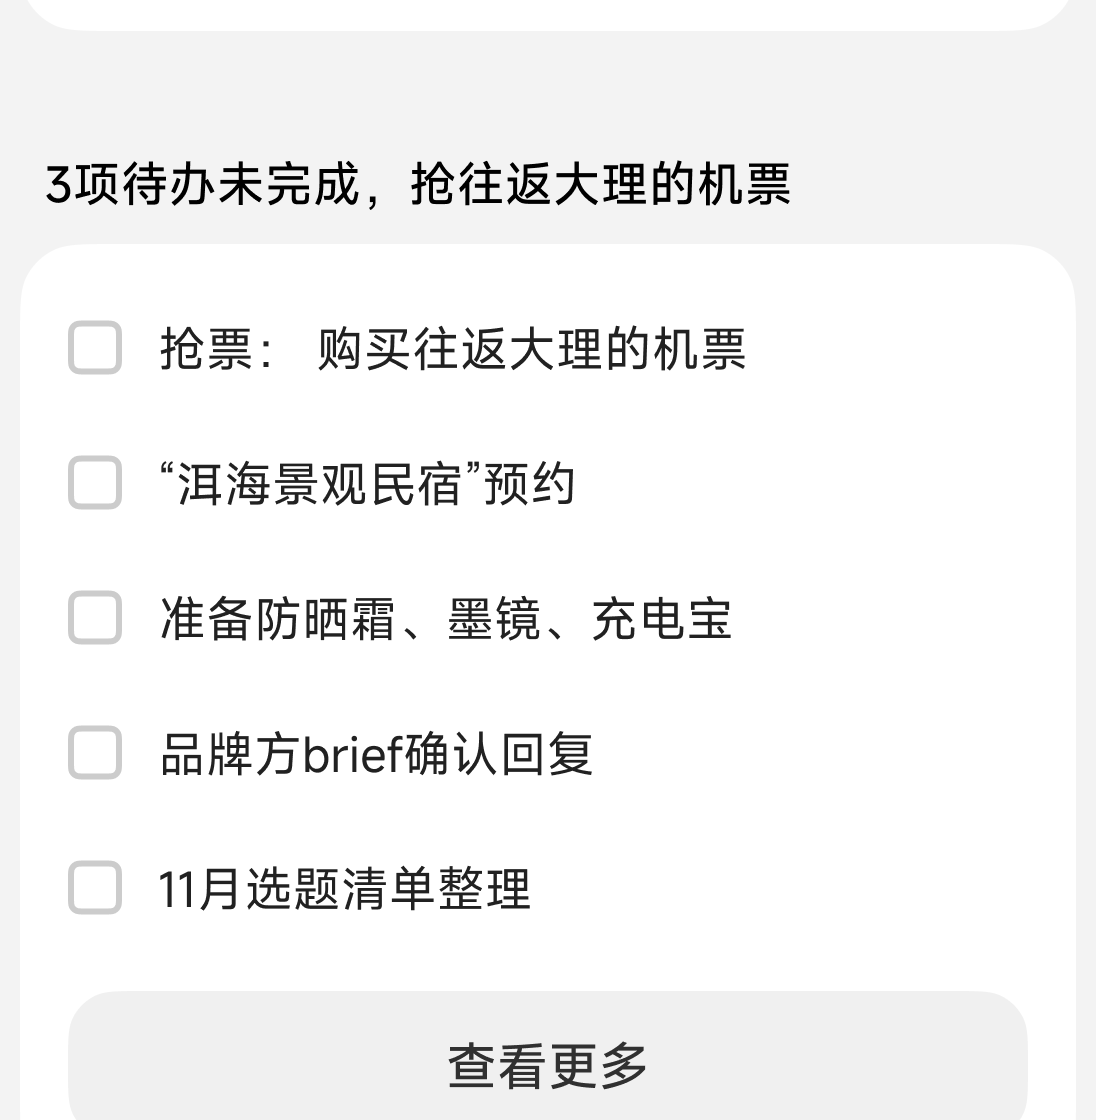
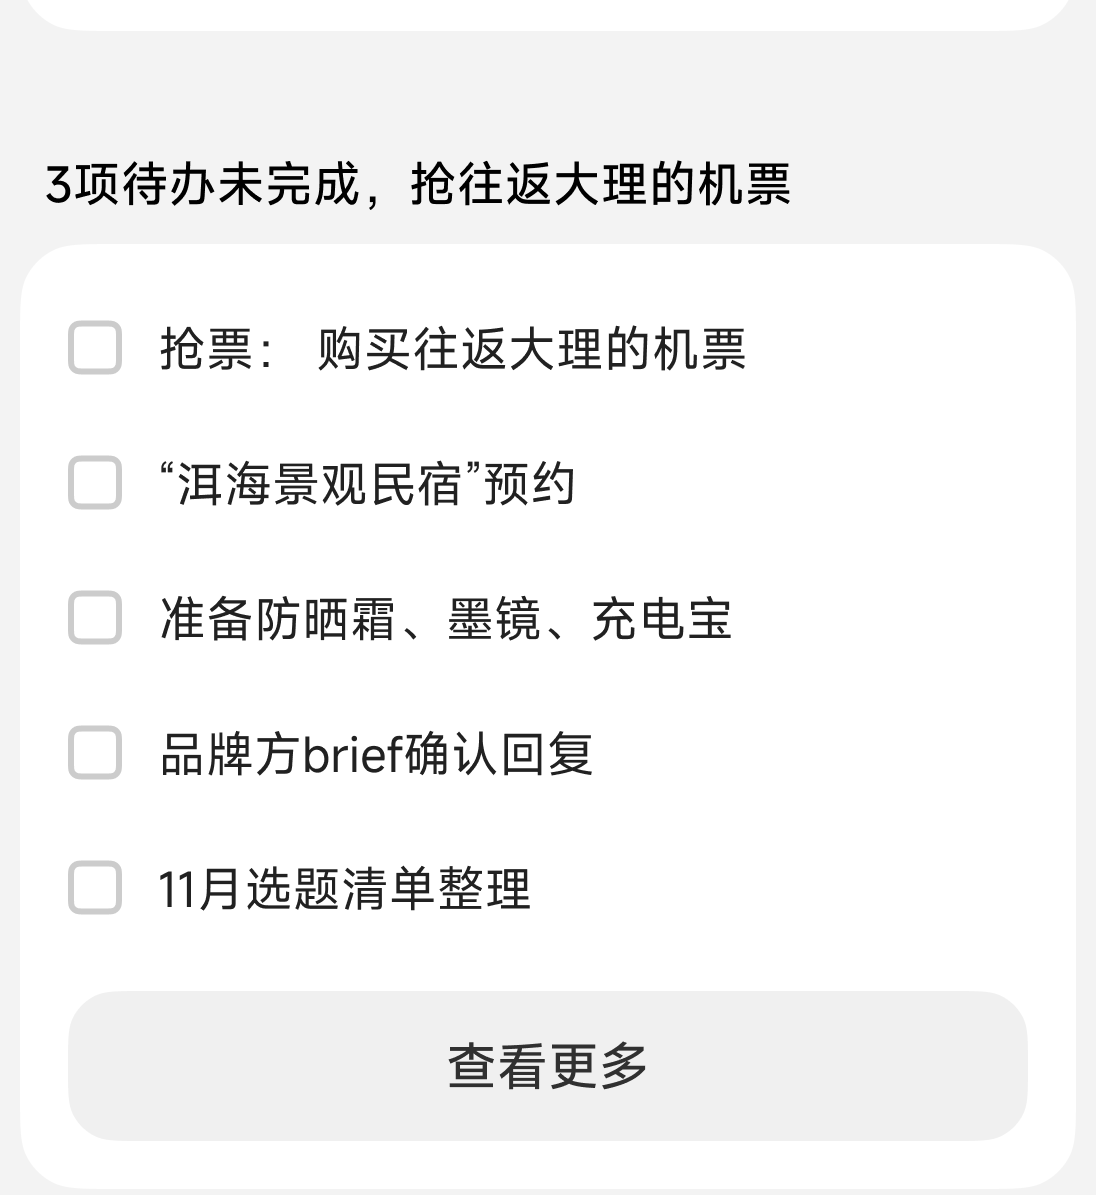
修复日程/待办切图查看更多被裁 + 待办跳转改为笔记App
- 日程/待办板块切图下边界放足，含完整"查看更多"按钮
- 待办跳转目标修正：待办App→笔记App·待办列表

diff --git a/index.html b/index.html
@@ -534,10 +534,10 @@ h1 { text-align: center; font-size: 36px; margin-bottom: 60px; }
 <div class="src-tag" style="color:#34c759;">③ 待办事项</div>
 <img src="assets/zaobao-sec-todo.png">
 </div>
-<div class="jump-arrow"><div class="arr">→</div><div class="arr-label">点击待办 / 「+」<br>进入待办 App</div></div>
+<div class="jump-arrow"><div class="arr">→</div><div class="arr-label">点击待办 / 「+」<br>进入笔记 App</div></div>
 <div class="jump-dst">
 <div class="dst-item">
-<div class="dst-tag">待办 App · 列表</div>
+<div class="dst-tag">笔记 App · 待办列表</div>
 <img src="assets/zaobao-ld-todo.png">
 <div class="dst-desc">勾选完成 / 编辑提醒；「+」进入新建待办</div>
 </div>